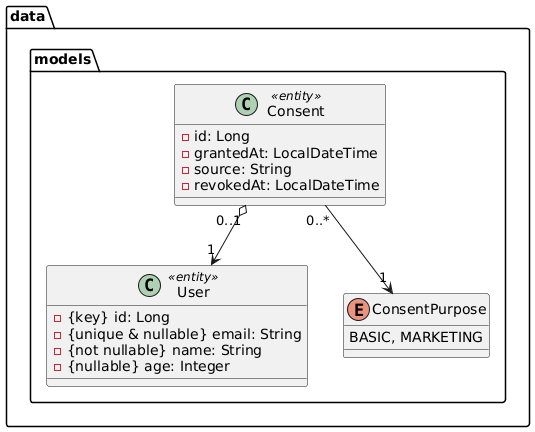
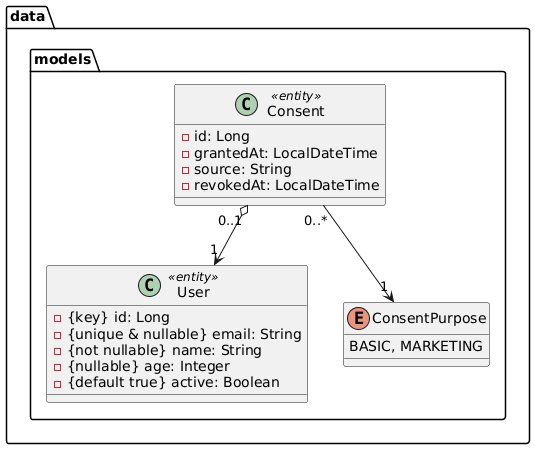
added repositories test & Unit Test

diff --git a/src/test/java/es/upm/poo/data/models/UserTest.java b/src/test/java/es/upm/poo/data/models/UserTest.java
@@ -1,0 +1,61 @@
+package es.upm.poo.data.models;
+
+import org.junit.jupiter.api.Test;
+
+import static org.junit.jupiter.api.Assertions.*;
+
+class UserTest {
+
+    @Test
+    void testConstructor() {
+        User user = new User("Alice Johnson", "alice.johnson@upm.es", 19, true);
+
+        assertNull(user.getId());
+        assertEquals("Alice Johnson", user.getName());
+        assertEquals("alice.johnson@upm.es", user.getEmail());
+        assertEquals(19, user.getAge());
+        assertTrue(user.getActive());
+    }
+
+    @Test
+    void testDefaultActive() {
+        User user = new User("Alice Johnson", null, null, null);
+
+        assertTrue(user.getActive());
+    }
+
+    @Test
+    void testInvalidName() {
+        assertThrows(IllegalArgumentException.class, () -> new User(null, null, null, null));
+        assertThrows(IllegalArgumentException.class, () -> new User(" ", null, null, null));
+    }
+
+    @Test
+    void testInvalidEmail() {
+        assertThrows(IllegalArgumentException.class, () -> new User("Alice Johnson", "invalid-email", null, null));
+    }
+
+    @Test
+    void testInvalidAge() {
+        assertThrows(IllegalArgumentException.class, () -> new User("Alice Johnson", null, -1, null));
+    }
+
+    @Test
+    void testEqualsById() {
+        User firstUser = new User("Alice Johnson", null, null, null);
+        User secondUser = new User("Marco Rossi", null, null, null);
+        firstUser.setId(1L);
+        secondUser.setId(1L);
+
+        assertEquals(firstUser, secondUser);
+        assertEquals(firstUser.hashCode(), secondUser.hashCode());
+    }
+
+    @Test
+    void testTransientUsersAreNotEquals() {
+        User firstUser = new User("Alice Johnson", null, null, null);
+        User secondUser = new User("Alice Johnson", null, null, null);
+
+        assertNotEquals(firstUser, secondUser);
+    }
+}

diff --git a/src/test/java/es/upm/poo/data/repositories/UserRepositoryIT.java b/src/test/java/es/upm/poo/data/repositories/UserRepositoryIT.java
@@ -1,0 +1,37 @@
+package es.upm.poo.data.repositories;
+
+import es.upm.poo.configuration.CliDependencyInjector;
+import es.upm.poo.data.models.User;
+import org.junit.jupiter.api.Test;
+
+import java.util.List;
+
+import static org.junit.jupiter.api.Assertions.assertEquals;
+import static org.junit.jupiter.api.Assertions.assertTrue;
+
+class UserRepositoryIT {
+    private final UserRepository userRepository = CliDependencyInjector.getInstance().getUserRepository();
+
+    @Test
+    void testFindByEmail() {
+        List<User> users = this.userRepository.findByEmail("alice.johnson@upm.es");
+
+        assertEquals(1, users.size());
+        assertEquals("Alice Johnson", users.getFirst().getName());
+        assertEquals("alice.johnson@upm.es", users.getFirst().getEmail());
+    }
+
+    @Test
+    void testFindByEmailNotFound() {
+        List<User> users = this.userRepository.findByEmail("unknown@upm.es");
+
+        assertTrue(users.isEmpty());
+    }
+
+    @Test
+    void testFindByEmailNull() {
+        List<User> users = this.userRepository.findByEmail(null);
+
+        assertTrue(users.isEmpty());
+    }
+}

diff --git a/src/main/java/es/upm/poo/data/models/User.java b/src/main/java/es/upm/poo/data/models/User.java
@@ -6,11 +6,11 @@ public class User {
     private static final int MIN_AGE = 0;
     private static final Boolean DEFAULT_ACTIVE = true;
 
-    private Long id;       // El servicio-repositorio asigna la id
-    private String name;   // Obligatorio
-    private String email;  // Opcional y único
-    private Integer age;   // Opcional
-    private Boolean active;// Opcional y true por defecto
+    private Long id;
+    private String name;
+    private String email;
+    private Integer age;
+    private Boolean active;
 
     public User(String name, String email, Integer age, Boolean active) {
         this.setEmail(email);
